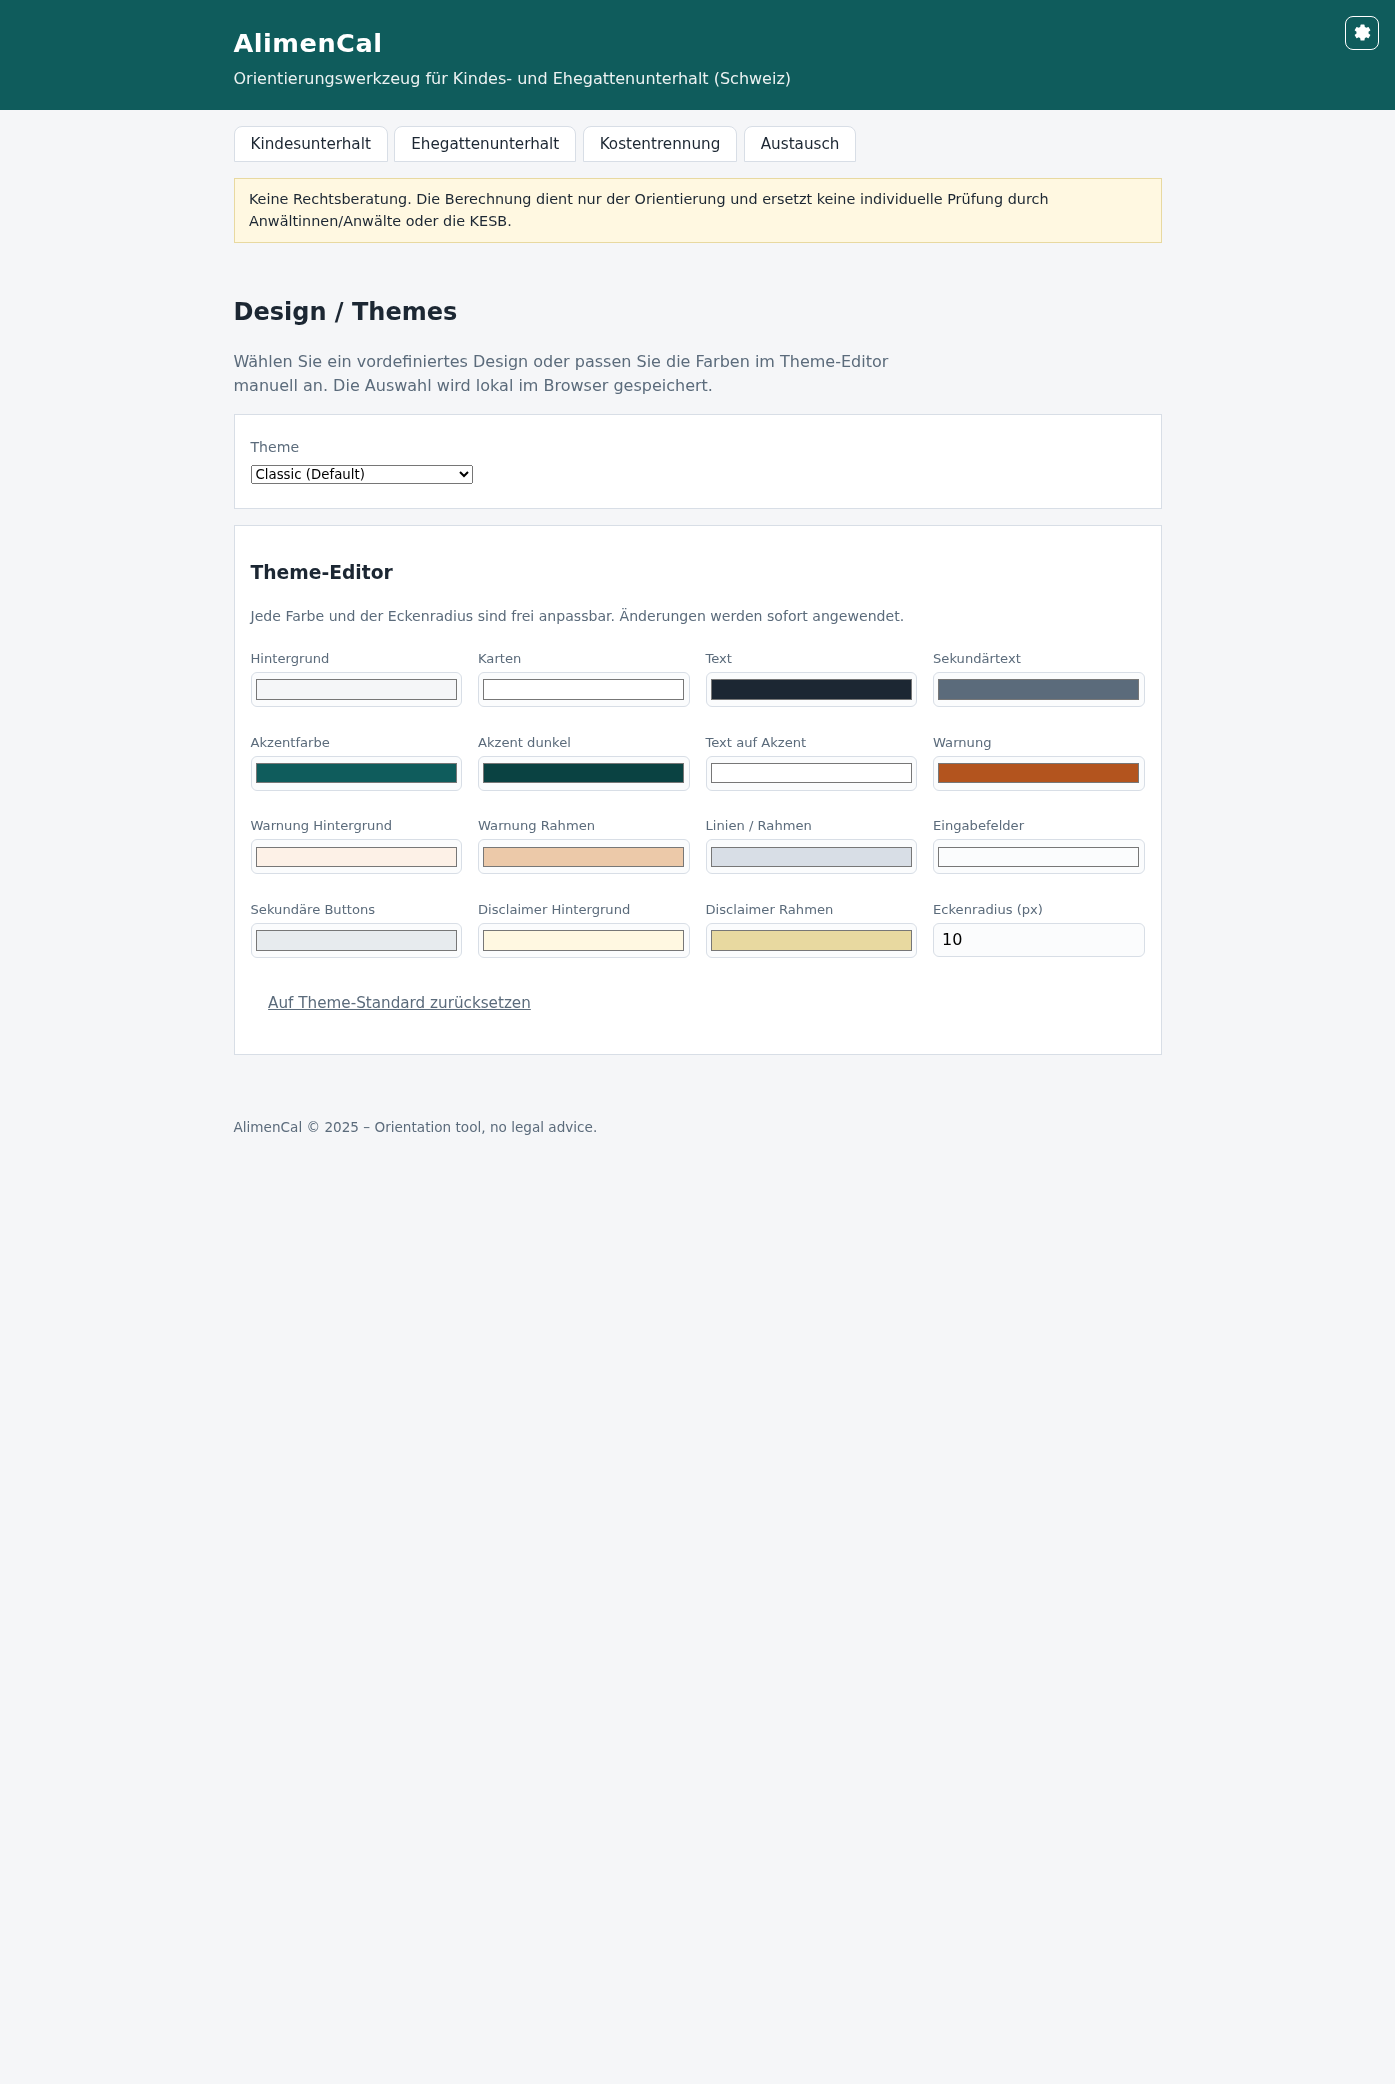
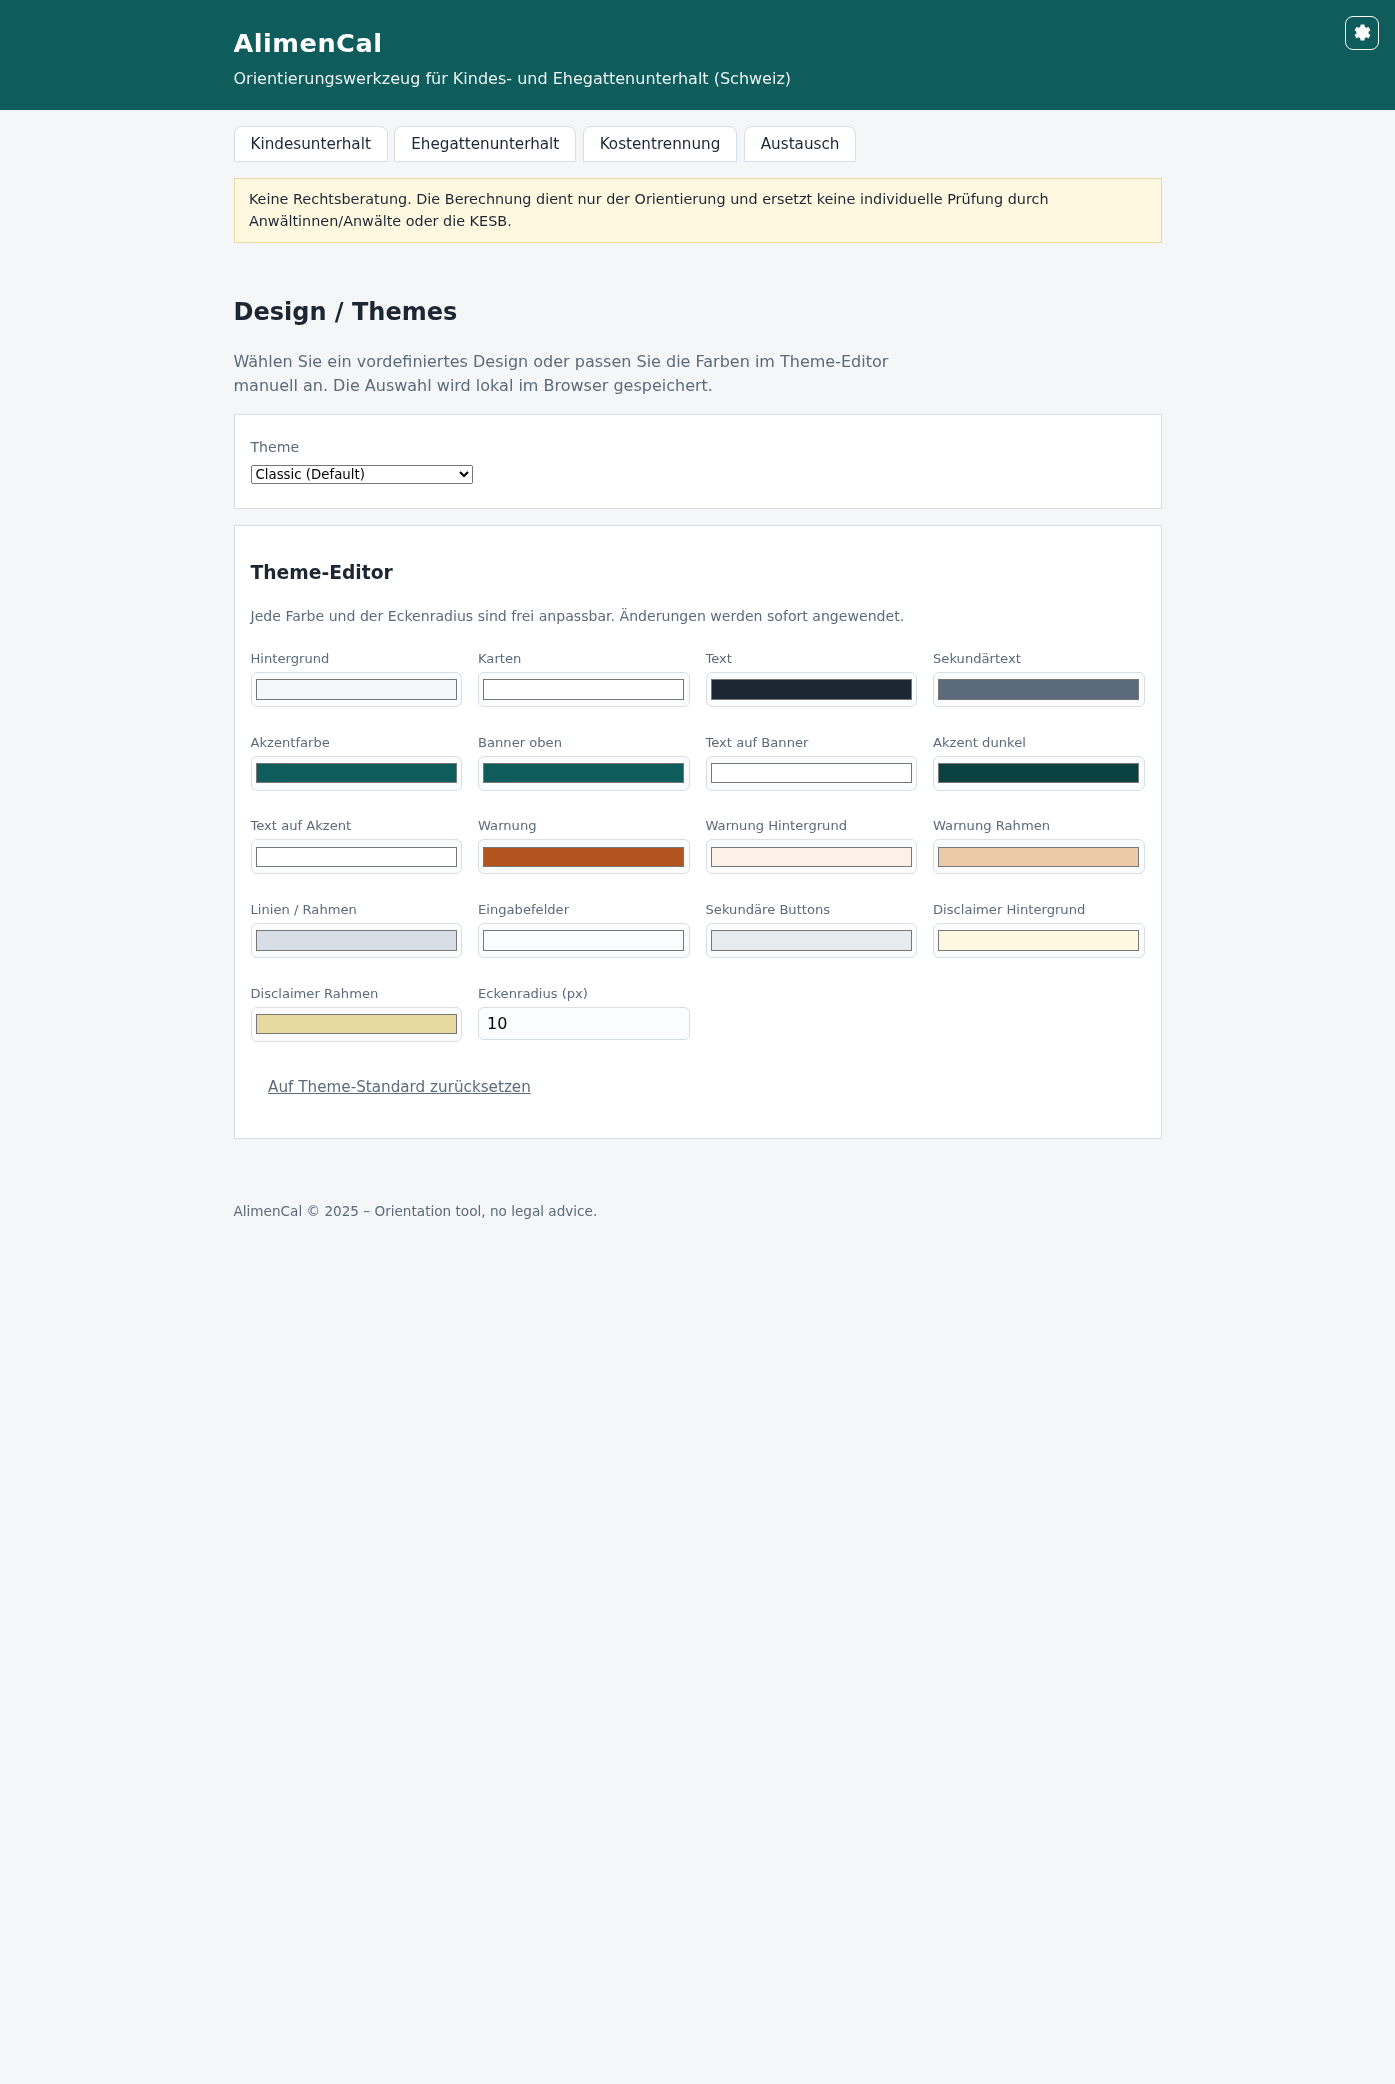
Bannerfarbe als Theme-Token: wechselt mit Themes und im Editor anpassbar

Changed region(s): [[0.1849, 0.3431, 0.8323, 0.5302], [0.3391, 0.3431, 0.4932, 0.3743]]

diff --git a/js/themes.js b/js/themes.js
@@ -15,6 +15,8 @@ AlimenCal.themes = (function () {
     { key: 'ink', label: { de: 'Text', fr: 'Texte', it: 'Testo', en: 'Text' }, type: 'color' },
     { key: 'muted', label: { de: 'Sekundärtext', fr: 'Texte secondaire', it: 'Testo secondario', en: 'Muted text' }, type: 'color' },
     { key: 'accent', label: { de: 'Akzentfarbe', fr: 'Couleur d’accent', it: 'Colore d’accento', en: 'Accent colour' }, type: 'color' },
+    { key: 'bannerBg', label: { de: 'Banner oben', fr: 'Bandeau supérieur', it: 'Banner in alto', en: 'Top banner' }, type: 'color' },
+    { key: 'bannerInk', label: { de: 'Text auf Banner', fr: 'Texte sur bandeau', it: 'Testo su banner', en: 'Text on banner' }, type: 'color' },
     { key: 'accentDark', label: { de: 'Akzent dunkel', fr: 'Accent foncé', it: 'Accento scuro', en: 'Accent dark' }, type: 'color' },
     { key: 'accentInk', label: { de: 'Text auf Akzent', fr: 'Texte sur accent', it: 'Testo su accento', en: 'Text on accent' }, type: 'color' },
     { key: 'warn', label: { de: 'Warnung', fr: 'Avertissement', it: 'Avviso', en: 'Warning' }, type: 'color' },
@@ -34,6 +36,8 @@ AlimenCal.themes = (function () {
     ink: '--ink',
     muted: '--muted',
     accent: '--accent',
+    bannerBg: '--banner-bg',
+    bannerInk: '--banner-ink',
     accentDark: '--accent-dark',
     accentInk: '--accent-ink',
     warn: '--warn',
@@ -54,6 +58,8 @@ AlimenCal.themes = (function () {
       values: {
         bg: '#f5f6f8', card: '#ffffff', ink: '#1c2733', muted: '#5b6b7b',
         accent: '#0f5c5c', accentDark: '#0a4242', accentInk: '#ffffff',
+        bannerBg: '#0f5c5c',
+        bannerInk: '#ffffff',
         warn: '#b3541e', warnBg: '#fdf1e7', warnBorder: '#ecc9a9',
         line: '#d8dee6', inputBg: '#fbfcfd', btnSecondaryBg: '#e7ebee',
         disclaimerBg: '#fff8e1', disclaimerBorder: '#e8d9a0', radius: 10
@@ -65,6 +71,8 @@ AlimenCal.themes = (function () {
       values: {
         bg: '#14181d', card: '#1e242b', ink: '#e8edf3', muted: '#9fb0c0',
         accent: '#2fa4a4', accentDark: '#1f7d7d', accentInk: '#0d1117',
+        bannerBg: '#173a3a',
+        bannerInk: '#e8edf3',
         warn: '#ff9f5a', warnBg: '#2b1f16', warnBorder: '#5a3a22',
         line: '#34404d', inputBg: '#171d23', btnSecondaryBg: '#2a3440',
         disclaimerBg: '#2a2413', disclaimerBorder: '#54491f', radius: 10
@@ -76,6 +84,8 @@ AlimenCal.themes = (function () {
       values: {
         bg: '#ffffff', card: '#ffffff', ink: '#000000', muted: '#333333',
         accent: '#004777', accentDark: '#002b49', accentInk: '#ffffff',
+        bannerBg: '#000000',
+        bannerInk: '#ffffff',
         warn: '#8a3b00', warnBg: '#ffffff', warnBorder: '#000000',
         line: '#000000', inputBg: '#ffffff', btnSecondaryBg: '#eeeeee',
         disclaimerBg: '#ffffff', disclaimerBorder: '#000000', radius: 0
@@ -87,6 +97,8 @@ AlimenCal.themes = (function () {
       values: {
         bg: '#faf4ee', card: '#fffdf9', ink: '#33261b', muted: '#7a6a58',
         accent: '#9c4a1e', accentDark: '#7a3714', accentInk: '#ffffff',
+        bannerBg: '#9c4a1e',
+        bannerInk: '#ffffff',
         warn: '#a04a10', warnBg: '#fdefe2', warnBorder: '#e8c39e',
         line: '#e5d9c9', inputBg: '#fbf7f0', btnSecondaryBg: '#f0e6d8',
         disclaimerBg: '#fdf3d8', disclaimerBorder: '#e8d9a0', radius: 14
@@ -98,6 +110,8 @@ AlimenCal.themes = (function () {
       values: {
         bg: '#eef3fb', card: '#ffffff', ink: '#16273d', muted: '#51677f',
         accent: '#1d4f91', accentDark: '#153a6c', accentInk: '#ffffff',
+        bannerBg: '#1d4f91',
+        bannerInk: '#ffffff',
         warn: '#b3541e', warnBg: '#fdf1e7', warnBorder: '#ecc9a9',
         line: '#c9d6e8', inputBg: '#f7fafd', btnSecondaryBg: '#dde7f4',
         disclaimerBg: '#fff8e1', disclaimerBorder: '#e8d9a0', radius: 10

diff --git a/css/style.css b/css/style.css
@@ -7,6 +7,8 @@
   --accent: #0f5c5c;
   --accent-dark: #0a4242;
   --accent-ink: #ffffff;
+  --banner-bg: #0f5c5c;
+  --banner-ink: #ffffff;
   --warn: #b3541e;
   --warn-bg: #fdf1e7;
   --warn-border: #ecc9a9;
@@ -31,8 +33,8 @@ body {
 .wrap { max-width: 960px; margin: 0 auto; padding: 0 1rem; }
 
 header {
-  background: var(--accent);
-  color: var(--accent-ink);
+  background: var(--banner-bg);
+  color: var(--banner-ink);
   padding: 1.5rem 0 1.2rem;
   position: relative;
 }
@@ -63,9 +65,9 @@ header h1 { margin: 0; font-size: 1.6rem; letter-spacing: 0.5px; }
 .settings-menu .lang-switch { margin-top: 0; padding: 0.35rem 0.6rem 0.15rem; font-size: 0.92rem; color: var(--ink); }
 .settings-menu .lang-switch select { width: 100%; margin-top: 0.25rem; padding: 0.3rem 0.4rem; border-radius: 6px; border: 1px solid var(--line); background: var(--bg); color: var(--ink); }
 .settings-menu-sep { border-top: 1px solid var(--line); margin: 0.35rem 0.25rem; }
-.settings-btn { width: 2.1rem; height: 2.1rem; display: inline-flex; align-items: center; justify-content: center; border: 1px solid var(--accent-ink); border-radius: 8px; background: transparent; color: var(--accent-ink); cursor: pointer; padding: 0; }
+.settings-btn { width: 2.1rem; height: 2.1rem; display: inline-flex; align-items: center; justify-content: center; border: 1px solid var(--banner-ink); border-radius: 8px; background: transparent; color: var(--banner-ink); cursor: pointer; padding: 0; }
 .settings-btn svg { width: 1.2rem; height: 1.2rem; display: block; }
-.settings-btn:hover, .settings-btn[aria-expanded="true"] { background: var(--accent-ink); color: var(--accent); }
+.settings-btn:hover, .settings-btn[aria-expanded="true"] { background: var(--banner-ink); color: var(--banner-bg); }
 .settings-menu { position: absolute; top: calc(100% + 0.35rem); right: 0; min-width: 11rem; background: var(--card); border: 1px solid var(--line); border-radius: 8px; box-shadow: 0 4px 14px rgba(0,0,0,0.18); padding: 0.35rem; z-index: 50; }
 .settings-menu[hidden] { display: none; }
 .settings-menu .tab { display: block; width: 100%; text-align: left; border: none; background: transparent; border-radius: 6px; padding: 0.45rem 0.6rem; font-size: 0.92rem; cursor: pointer; color: var(--ink); }

diff --git a/docs/BENUTZERHANDBUCH.md b/docs/BENUTZERHANDBUCH.md
@@ -162,9 +162,10 @@ B importiert, rechnet).
 
 - **Vordefinierte Themes**: Classic (Default), Dark, High Contrast (barrierefrei,
   für Sehbehinderte geeignet), Warm und Blue – Auswahl wirkt sofort.
-- **Theme-Editor**: Alle 15 Design-Farben und der Eckenradius sind manuell
-  frei anpassbar. Änderungen werden sofort angewendet; die Auswahl springt auf
-  «Benutzerdefiniert».
+- **Theme-Editor**: Alle 17 Design-Farben und der Eckenradius sind manuell
+  frei anpassbar; inklusive Hintergrund und Textfarbe des oberen Banners,
+  das auch mit dem gewählten Theme wechselt. Änderungen werden sofort
+  angewendet; die Auswahl springt auf «Benutzerdefiniert».
 - **Zurücksetzen** stellt das Classic-Theme wieder her.
 - Theme-Auswahl und angepasste Werte werden im Browser gespeichert und nach
 einem Neustart wiederhergestellt.

diff --git a/README.md b/README.md
@@ -123,7 +123,7 @@ funktioniert; `tests/presets.test.js` prüft die Konsistenz zwischen beiden.
 node tests/calculator.test.js   # Berechnungskern (53 Tests)
 node tests/presets.test.js      # Presets: JSON-Gültigkeit, Konsistenz JS/JSON (29 Tests)
 node tests/costsplit.test.js    # Kostentrennung: CSV-Parsing, Zuordnung, Ausgleich (42 Tests)
-node tests/themes.test.js       # Themes: Presets, Token, Validierung, Sanitizing (113 Tests)
+node tests/themes.test.js       # Themes: Presets, Token, Validierung, Sanitizing (123 Tests)
 node tests/casedata.test.js     # Falldaten-Austausch: Validierung, Merge, Roundtrip (43 Tests)
 ```
 
